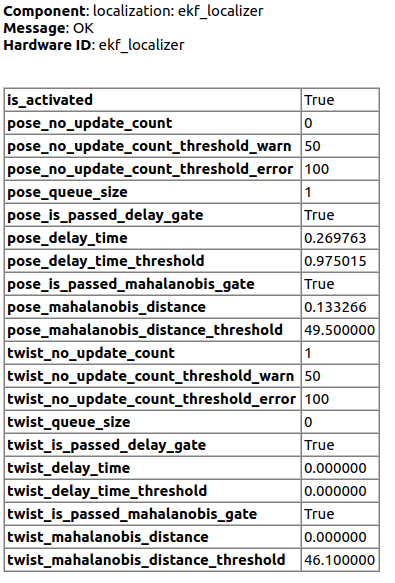
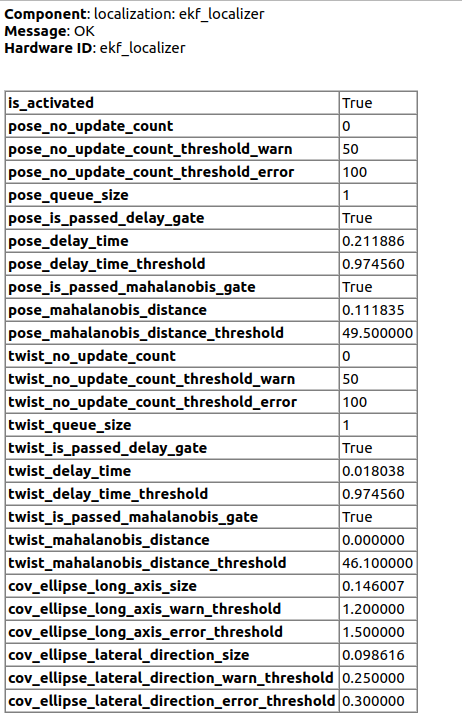
feat(ekf_localizer): add covariance ellipse diagnostics (autowarefoundation/autoware_universe#7708)
* Added ellipse diagnostics to ekf

* Removed an unnecessary parenthesis

* Fixed to ellipse_scale

* Fixed to ellipse_scale

* Updated ekf_diagnostics.png

* Added condition

* Fixed "and" to "or"

---------

diff --git a/universe/localization/ekf_localizer/src/ekf_localizer.cpp b/universe/localization/ekf_localizer/src/ekf_localizer.cpp
@@ -17,6 +17,7 @@
 #include "ekf_localizer/diagnostics.hpp"
 #include "ekf_localizer/string.hpp"
 #include "ekf_localizer/warning_message.hpp"
+#include "localization_util/covariance_ellipse.hpp"
 
 #include <autoware/universe_utils/geometry/geometry.hpp>
 #include <autoware/universe_utils/math/unit_conversion.hpp>
@@ -148,7 +149,7 @@ void EKFLocalizer::timer_callback()
   if (!is_activated_) {
     warning_->warn_throttle(
       "The node is not activated. Provide initial pose to pose_initializer", 2000);
-    publish_diagnostics(current_time);
+    publish_diagnostics(geometry_msgs::msg::PoseStamped{}, current_time);
     return;
   }
 
@@ -241,7 +242,7 @@ void EKFLocalizer::timer_callback()
 
   /* publish ekf result */
   publish_estimate_result(current_ekf_pose, current_biased_ekf_pose, current_ekf_twist);
-  publish_diagnostics(current_time);
+  publish_diagnostics(current_ekf_pose, current_time);
 }
 
 /*
@@ -390,7 +391,8 @@ void EKFLocalizer::publish_estimate_result(
   pub_odom_->publish(odometry);
 }
 
-void EKFLocalizer::publish_diagnostics(const rclcpp::Time & current_time)
+void EKFLocalizer::publish_diagnostics(
+  const geometry_msgs::msg::PoseStamped & current_ekf_pose, const rclcpp::Time & current_time)
 {
   std::vector<diagnostic_msgs::msg::DiagnosticStatus> diag_status_array;
 
@@ -418,6 +420,18 @@ void EKFLocalizer::publish_diagnostics(const rclcpp::Time & current_time)
     diag_status_array.push_back(check_measurement_mahalanobis_gate(
       "twist", twist_diag_info_.is_passed_mahalanobis_gate, twist_diag_info_.mahalanobis_distance,
       params_.twist_gate_dist));
+
+    geometry_msgs::msg::PoseWithCovariance pose_cov;
+    pose_cov.pose = current_ekf_pose.pose;
+    pose_cov.covariance = ekf_module_->get_current_pose_covariance();
+    const autoware::localization_util::Ellipse ellipse =
+      autoware::localization_util::calculate_xy_ellipse(pose_cov, params_.ellipse_scale);
+    diag_status_array.push_back(check_covariance_ellipse(
+      "cov_ellipse_long_axis", ellipse.long_radius, params_.warn_ellipse_size,
+      params_.error_ellipse_size));
+    diag_status_array.push_back(check_covariance_ellipse(
+      "cov_ellipse_lateral_direction", ellipse.size_lateral_direction,
+      params_.warn_ellipse_size_lateral_direction, params_.error_ellipse_size_lateral_direction));
   }
 
   diagnostic_msgs::msg::DiagnosticStatus diag_merged_status;

diff --git a/universe/localization/ekf_localizer/src/diagnostics.cpp b/universe/localization/ekf_localizer/src/diagnostics.cpp
@@ -139,6 +139,39 @@ diagnostic_msgs::msg::DiagnosticStatus check_measurement_mahalanobis_gate(
   return stat;
 }
 
+diagnostic_msgs::msg::DiagnosticStatus check_covariance_ellipse(
+  const std::string & name, const double curr_size, const double warn_threshold,
+  const double error_threshold)
+{
+  diagnostic_msgs::msg::DiagnosticStatus stat;
+
+  diagnostic_msgs::msg::KeyValue key_value;
+  key_value.key = name + "_size";
+  key_value.value = std::to_string(curr_size);
+  stat.values.push_back(key_value);
+
+  key_value.key = name + "_warn_threshold";
+  key_value.value = std::to_string(warn_threshold);
+  stat.values.push_back(key_value);
+
+  key_value.key = name + "_error_threshold";
+  key_value.value = std::to_string(error_threshold);
+  stat.values.push_back(key_value);
+
+  stat.level = diagnostic_msgs::msg::DiagnosticStatus::OK;
+  stat.message = "OK";
+  if (curr_size >= warn_threshold) {
+    stat.level = diagnostic_msgs::msg::DiagnosticStatus::WARN;
+    stat.message = "[WARN]" + name + " is large";
+  }
+  if (curr_size >= error_threshold) {
+    stat.level = diagnostic_msgs::msg::DiagnosticStatus::ERROR;
+    stat.message = "[ERROR]" + name + " is large";
+  }
+
+  return stat;
+}
+
 // The highest level within the stat_array will be reflected in the merged_stat.
 // When all stat_array entries are 'OK,' the message of merged_stat will be "OK"
 diagnostic_msgs::msg::DiagnosticStatus merge_diagnostic_status(

diff --git a/universe/localization/ekf_localizer/include/ekf_localizer/hyper_parameters.hpp b/universe/localization/ekf_localizer/include/ekf_localizer/hyper_parameters.hpp
@@ -57,6 +57,13 @@ public:
       node->declare_parameter<int>("diagnostics.twist_no_update_count_threshold_warn")),
     twist_no_update_count_threshold_error(
       node->declare_parameter<int>("diagnostics.twist_no_update_count_threshold_error")),
+    ellipse_scale(node->declare_parameter<double>("diagnostics.ellipse_scale")),
+    error_ellipse_size(node->declare_parameter<double>("diagnostics.error_ellipse_size")),
+    warn_ellipse_size(node->declare_parameter<double>("diagnostics.warn_ellipse_size")),
+    error_ellipse_size_lateral_direction(
+      node->declare_parameter<double>("diagnostics.error_ellipse_size_lateral_direction")),
+    warn_ellipse_size_lateral_direction(
+      node->declare_parameter<double>("diagnostics.warn_ellipse_size_lateral_direction")),
     threshold_observable_velocity_mps(
       node->declare_parameter<double>("misc.threshold_observable_velocity_mps"))
   {
@@ -86,6 +93,12 @@ public:
   const size_t pose_no_update_count_threshold_error;
   const size_t twist_no_update_count_threshold_warn;
   const size_t twist_no_update_count_threshold_error;
+  double ellipse_scale;
+  double error_ellipse_size;
+  double warn_ellipse_size;
+  double error_ellipse_size_lateral_direction;
+  double warn_ellipse_size_lateral_direction;
+
   const double threshold_observable_velocity_mps;
 };
 

diff --git a/universe/localization/ekf_localizer/include/ekf_localizer/diagnostics.hpp b/universe/localization/ekf_localizer/include/ekf_localizer/diagnostics.hpp
@@ -33,6 +33,9 @@ diagnostic_msgs::msg::DiagnosticStatus check_measurement_delay_gate(
 diagnostic_msgs::msg::DiagnosticStatus check_measurement_mahalanobis_gate(
   const std::string & measurement_type, const bool is_passed_mahalanobis_gate,
   const double mahalanobis_distance, const double mahalanobis_distance_threshold);
+diagnostic_msgs::msg::DiagnosticStatus check_covariance_ellipse(
+  const std::string & name, const double curr_size, const double warn_threshold,
+  const double error_threshold);
 
 diagnostic_msgs::msg::DiagnosticStatus merge_diagnostic_status(
   const std::vector<diagnostic_msgs::msg::DiagnosticStatus> & stat_array);

diff --git a/universe/localization/ekf_localizer/include/ekf_localizer/ekf_localizer.hpp b/universe/localization/ekf_localizer/include/ekf_localizer/ekf_localizer.hpp
@@ -216,7 +216,8 @@ private:
   /**
    * @brief publish diagnostics message
    */
-  void publish_diagnostics(const rclcpp::Time & current_time);
+  void publish_diagnostics(
+    const geometry_msgs::msg::PoseStamped & current_ekf_pose, const rclcpp::Time & current_time);
 
   /**
    * @brief update simple 1d filter

diff --git a/universe/localization/ekf_localizer/README.md b/universe/localization/ekf_localizer/README.md
@@ -186,10 +186,12 @@ Note that, although the dimension gets larger since the analytical expansion can
 - The number of consecutive no measurement update via the Pose/Twist topic exceeds the `pose_no_update_count_threshold_warn`/`twist_no_update_count_threshold_warn`.
 - The timestamp of the Pose/Twist topic is beyond the delay compensation range.
 - The Pose/Twist topic is beyond the range of Mahalanobis distance for covariance estimation.
+- The covariance ellipse is bigger than threshold `warn_ellipse_size` for long axis or `warn_ellipse_size_lateral_direction` for lateral_direction.
 
 ### The conditions that result in an ERROR state
 
 - The number of consecutive no measurement update via the Pose/Twist topic exceeds the `pose_no_update_count_threshold_error`/`twist_no_update_count_threshold_error`.
+- The covariance ellipse is bigger than threshold `error_ellipse_size` for long axis or `error_ellipse_size_lateral_direction` for lateral_direction.
 
 ## Known issues
 
